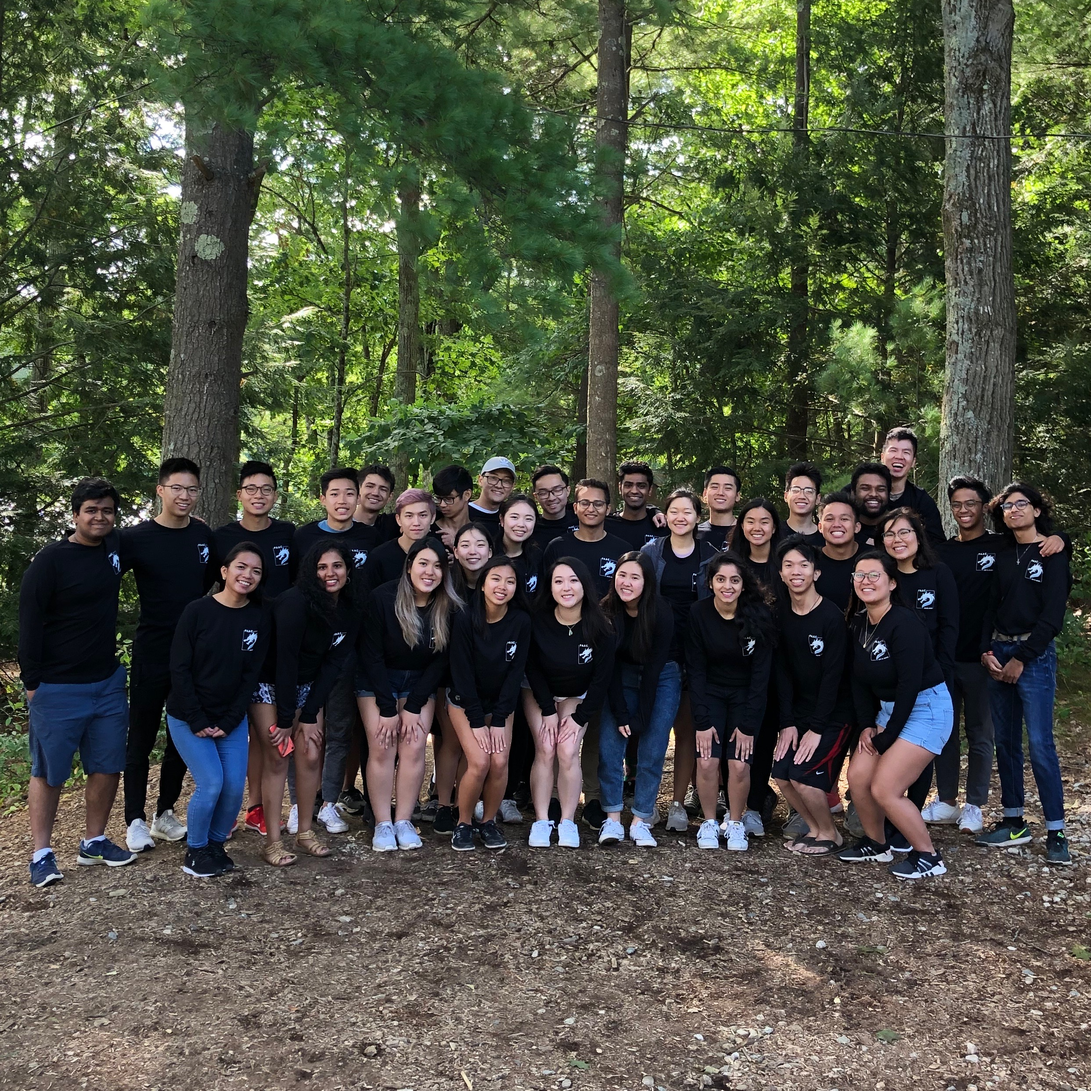
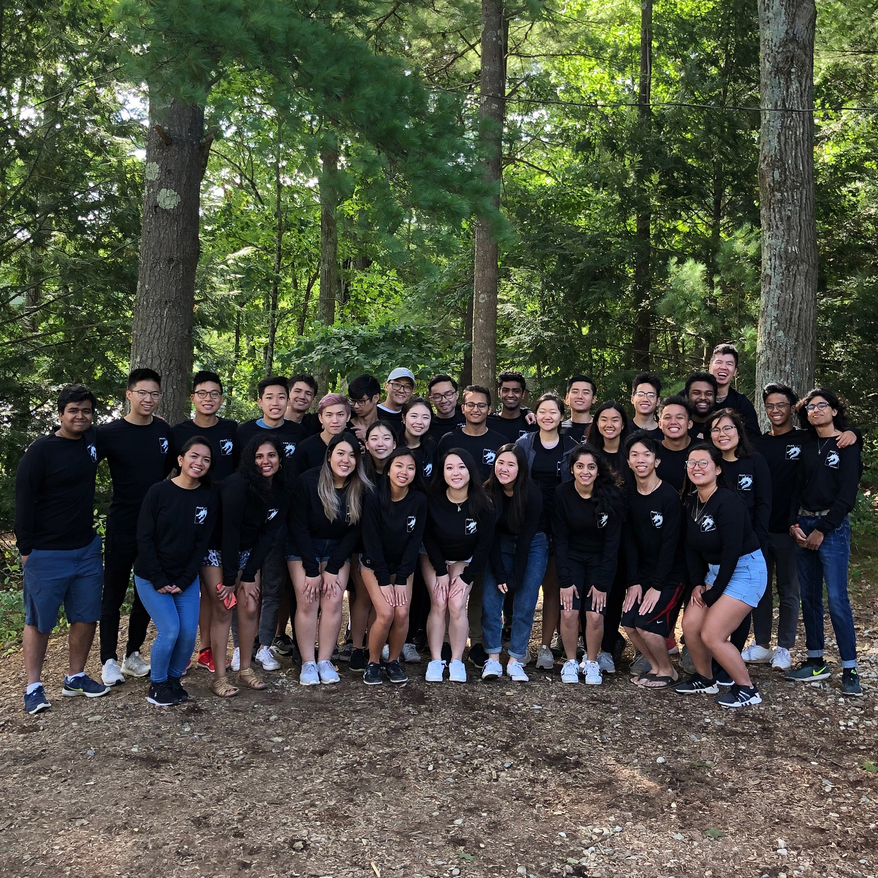
Smaller image for PAAC

diff --git a/projects.html b/projects.html
@@ -62,7 +62,7 @@
 						</div>
 					</div>
 
-					<div id="sandwich" class="filters-content">
+					<div class="filters-content">
 						<div class="p-inner">
 							<h4>"Make Me a Sandwich" Vector Designs</h4>
 							<div class="cat">Illustrator</div>
